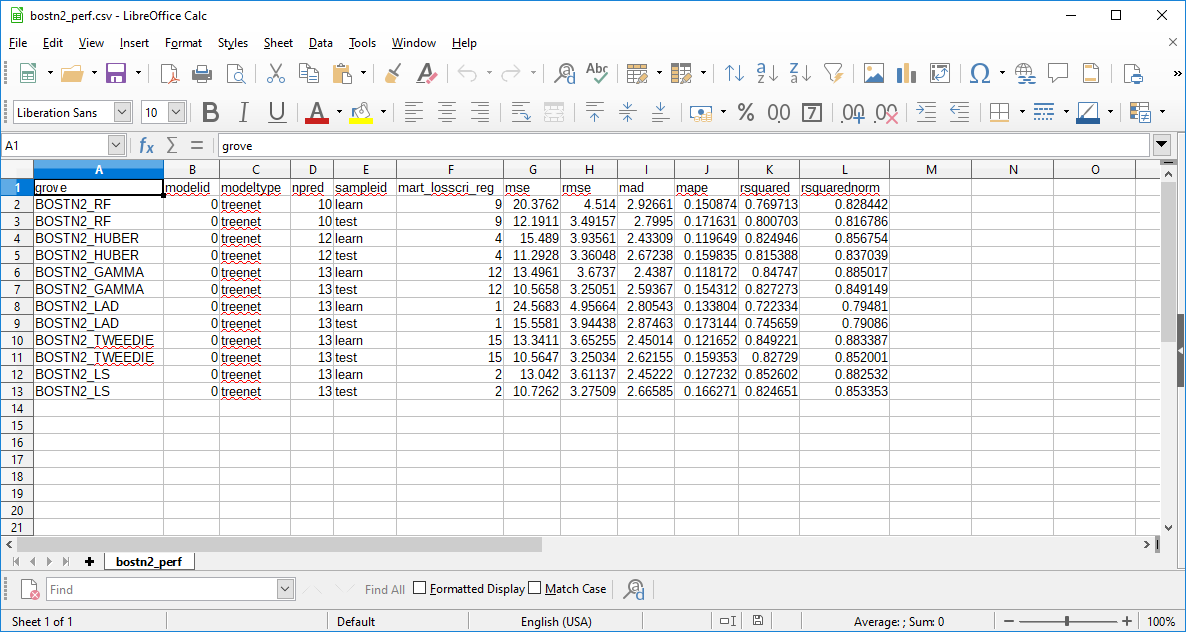
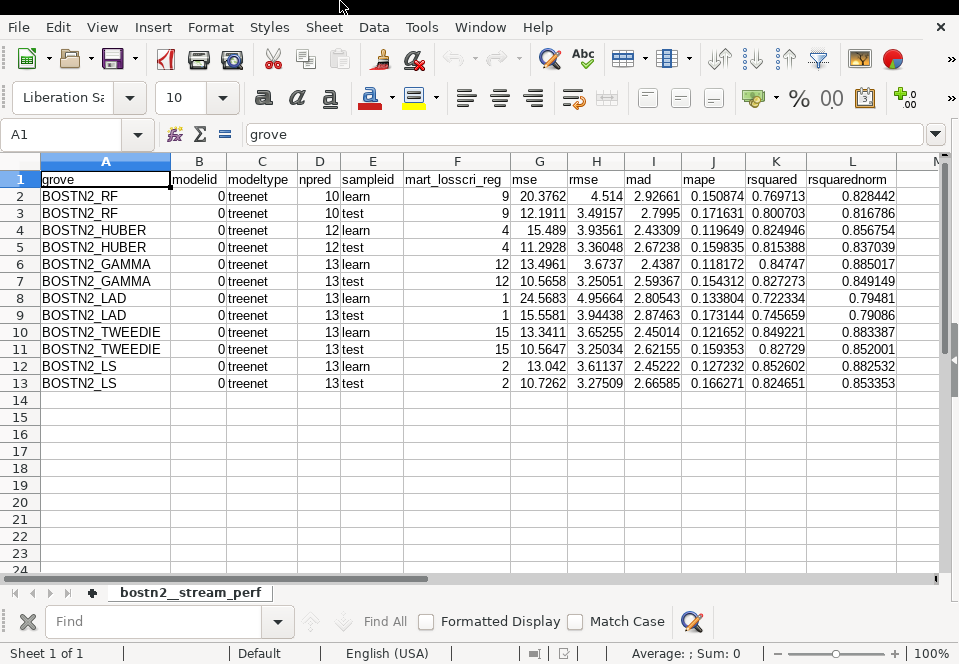
Continue revision of README.md
Replacing the original single threaded example with the new multithreaded one.

diff --git a/README.md b/README.md
@@ -183,14 +183,21 @@ Each box represents a job and the arrows show the dependencies.  The jobs are as
 
 1.  modstats creates a report on the models built thus far.
 
-When the status is again "pending", the job is finished.  To get statistics on
-the results, type something like the following at the terminal:
+To start the stream, click on the elipsis next to the initial job (BosTN2) and select
+"Start Job Now".
 
-```
-modstats --host=<hostname> --user=<username> --password=<password> --project=automate --perfstats=mse,rmse,mad,mape,rsquared,rsquarednorm --sortby=rsquared --sessflds=mart_losscri_reg >bostn2_perf.csv
-```
-If the the command is being run on the database server using the same account that owns the database, the `--host`, `--user`, and `--password` options are unnecessary.
+![](pics/runstream.png)
 
-The resulting CSV file (`bostn2_perf.csv`) can then be opened in your favorite spreadsheet application.  Here is what it looks like in LibreOffice Calc:
+The blocks for the jobs running will turn green, like so:
+
+![](pics/runstream2.png)
+
+When all of the blocks are again yellow, the job is finished.  Assuming everything ran successfully,
+the task history will look something like this:
+
+![](pics/TaskHistory.png)
+
+In the current example, the output file will be `$HOME/projects/automate/bostn2__stream_perf.csv`.
+In LibreOffice, it looks like this:
 
 ![](pics/modstats.png)
